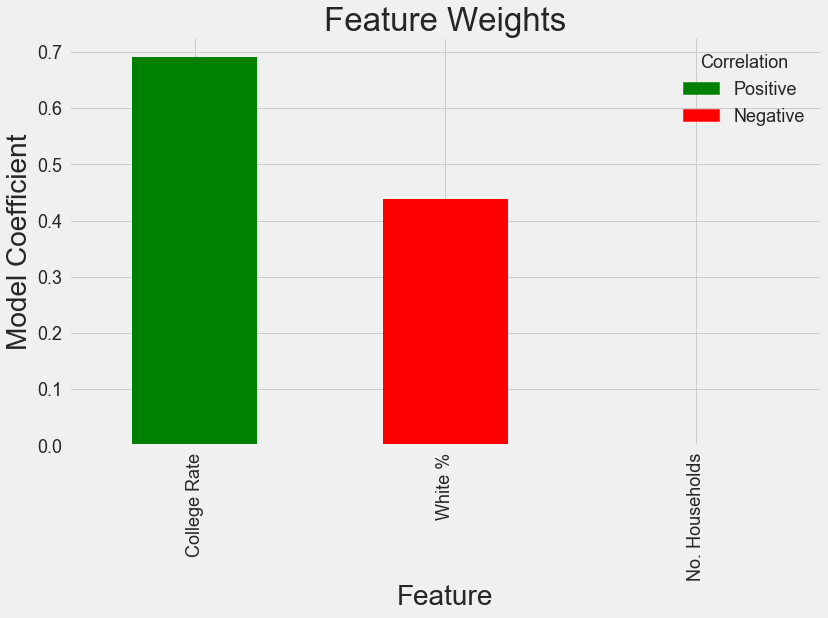
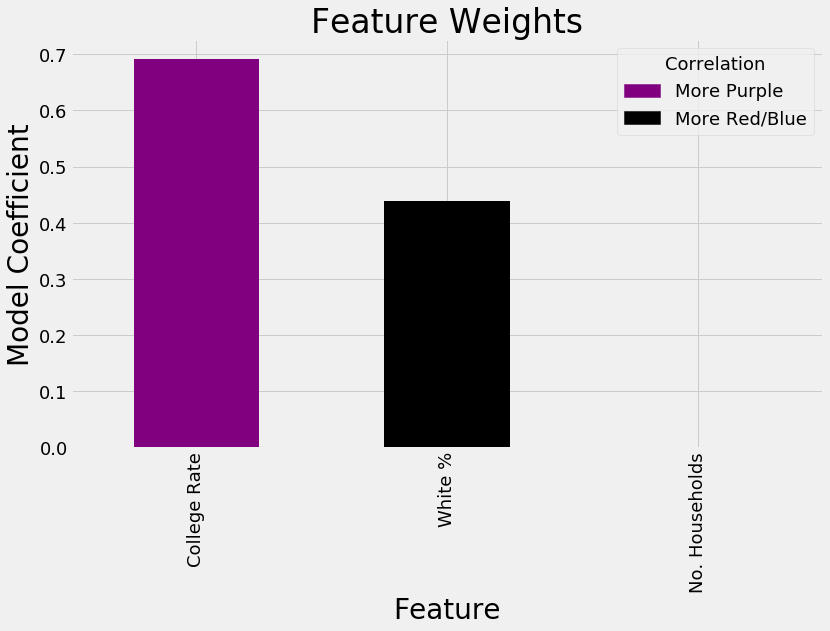
plot

diff --git a/_posts/2018-05-19-purple_counties.md b/_posts/2018-05-19-purple_counties.md
@@ -67,7 +67,7 @@ By default, binary classification models predict an observation to be in the pos
 Note the significant increase in false positives (upper right) with the lower threshold.
 
 ### Model Interpretation
-With the final model selected, features correlating with a "purple" county prediction can be analyzed. The bar graph below shows the positive and negative weights which contribute to identification as a "purple" county. For this task, I took advantage of the same feature weight sorting function developed in my independent film linear regression project - [Forecasting Indie Film Performance](https://kevscon.github.io/2018/04/29/indie_films.html). Note that, after tuning, only three of the fourteen features impacted the model. The optimal Logistic Regression model utilized L1 regularization which has the ability to completely zero out features.
+With the final model selected, features correlating with a "purple" county prediction can be analyzed. The bar graph below shows the weights which contribute to identification as a "purple" county. Features that correlate with "purple" counties are shown in purple while features that correlate with "red/blue" counties are in black. For this task, I took advantage of the same feature weight sorting function developed in my independent film linear regression project - [Forecasting Indie Film Performance](https://kevscon.github.io/2018/04/29/indie_films.html). Note that, after tuning, only three of the fourteen features impacted the model. The optimal Logistic Regression model utilized L1 regularization which has the ability to completely zero out features.
 
 According to this analysis, "purple" counties tend to have:
 - a higher college degree rate
